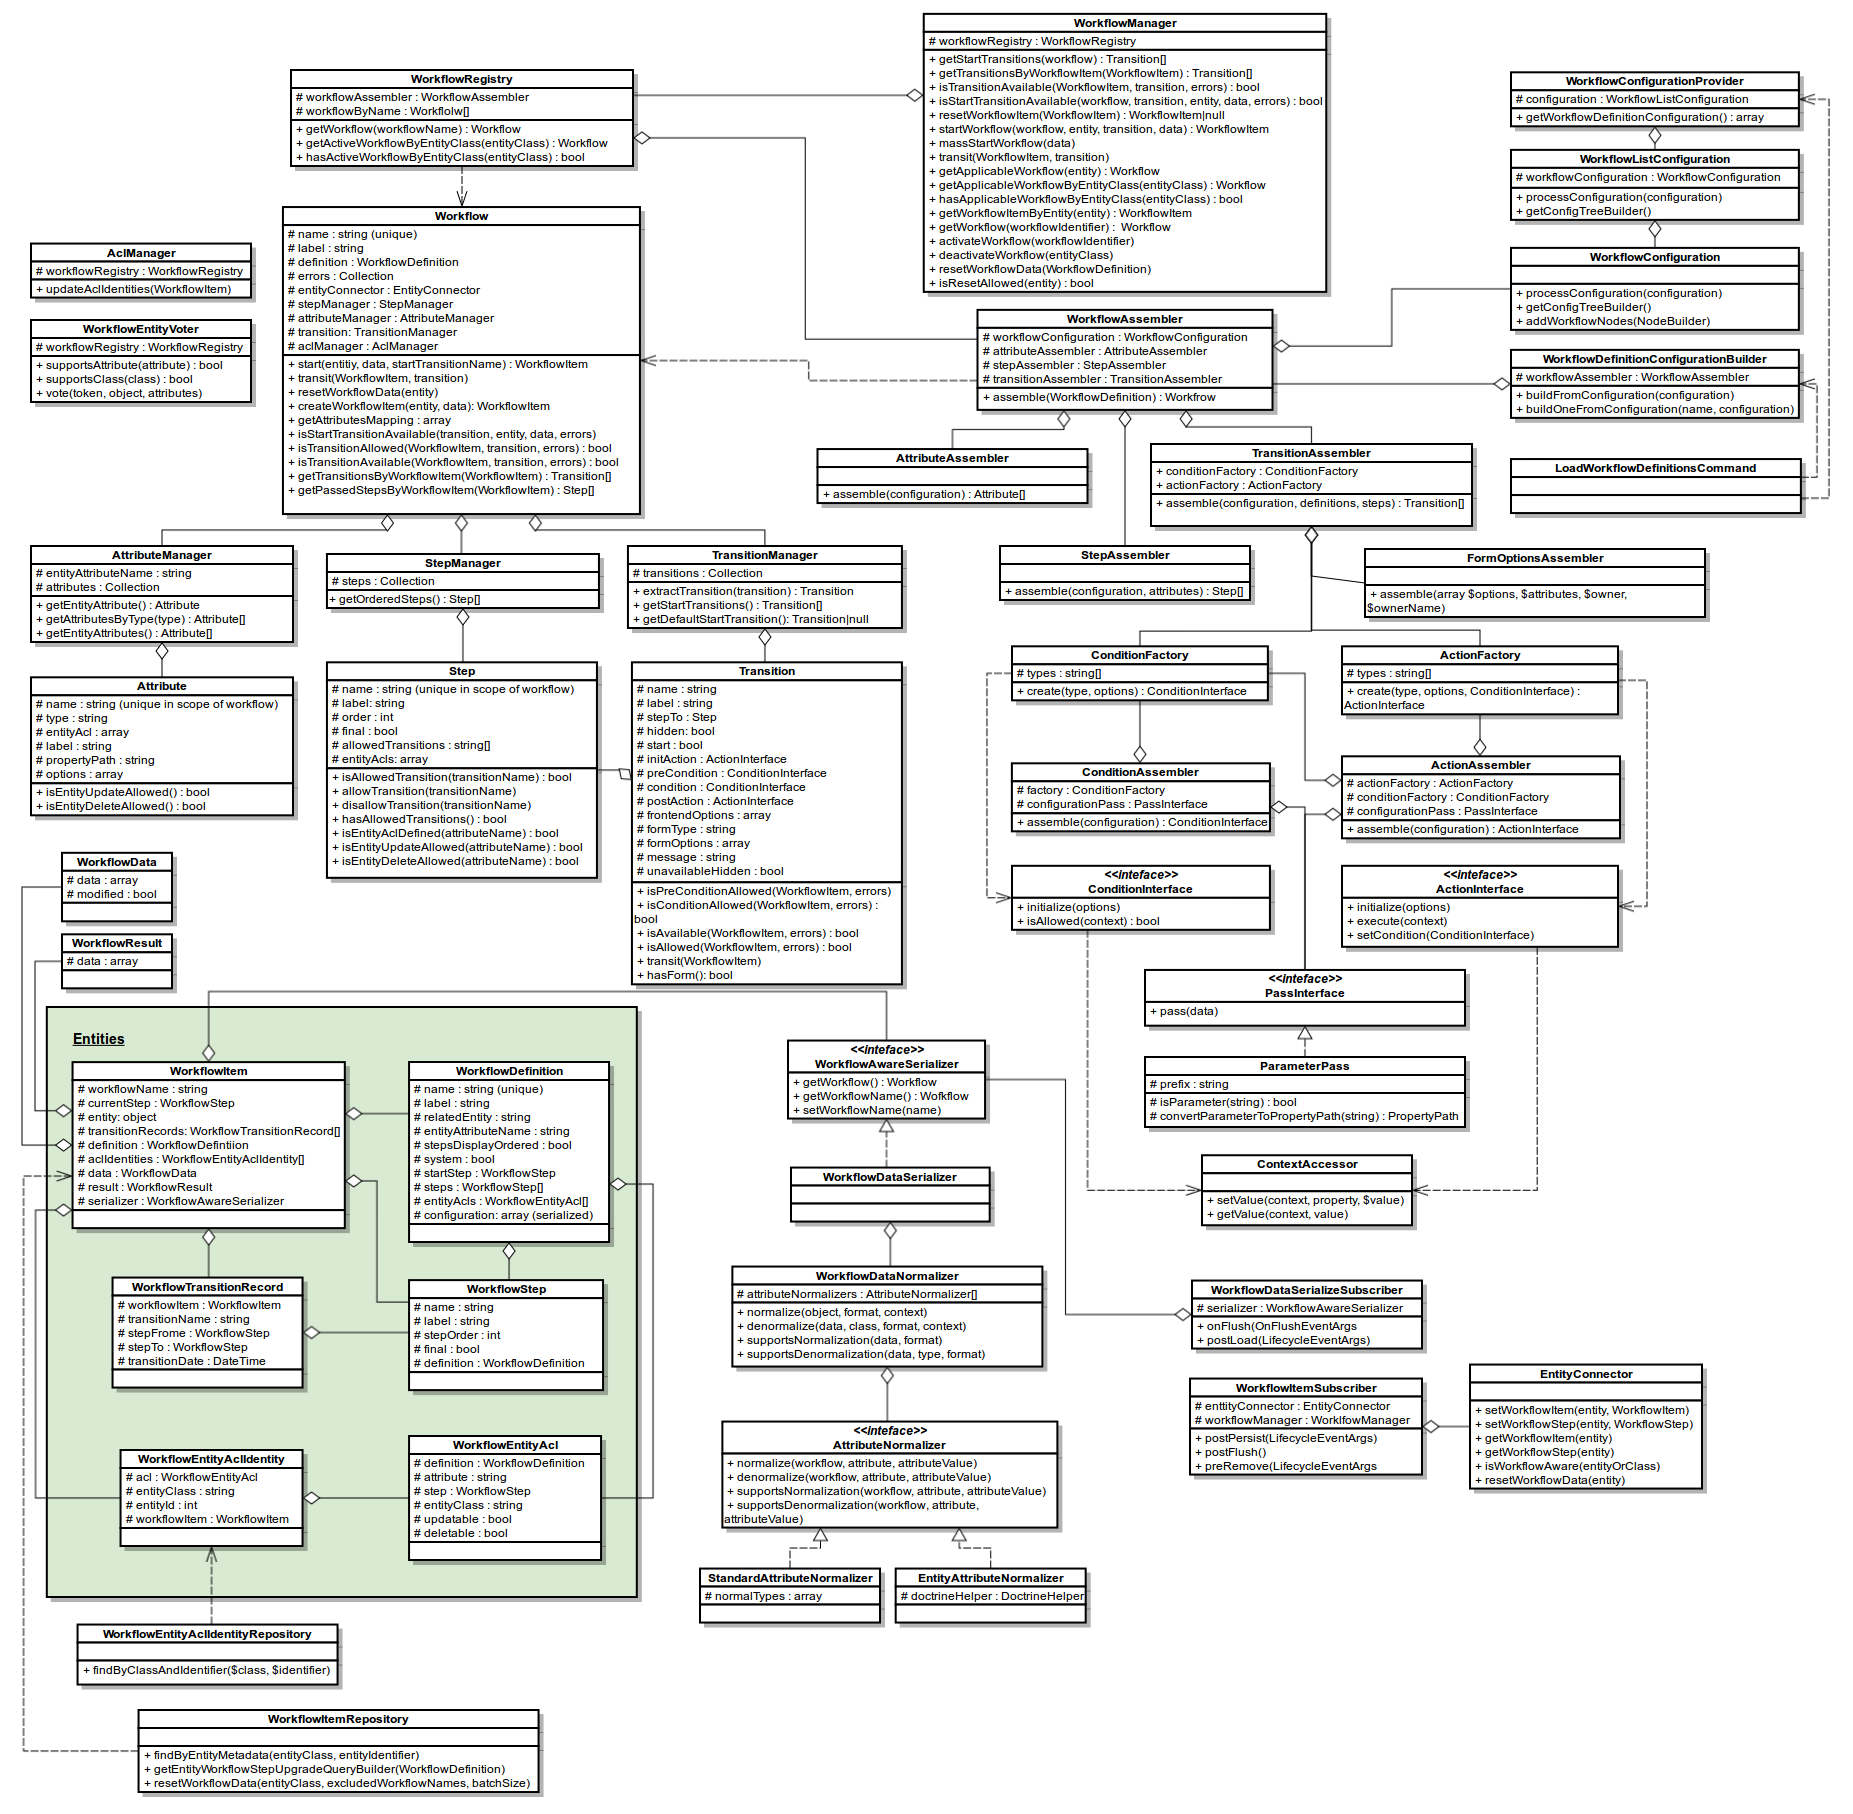
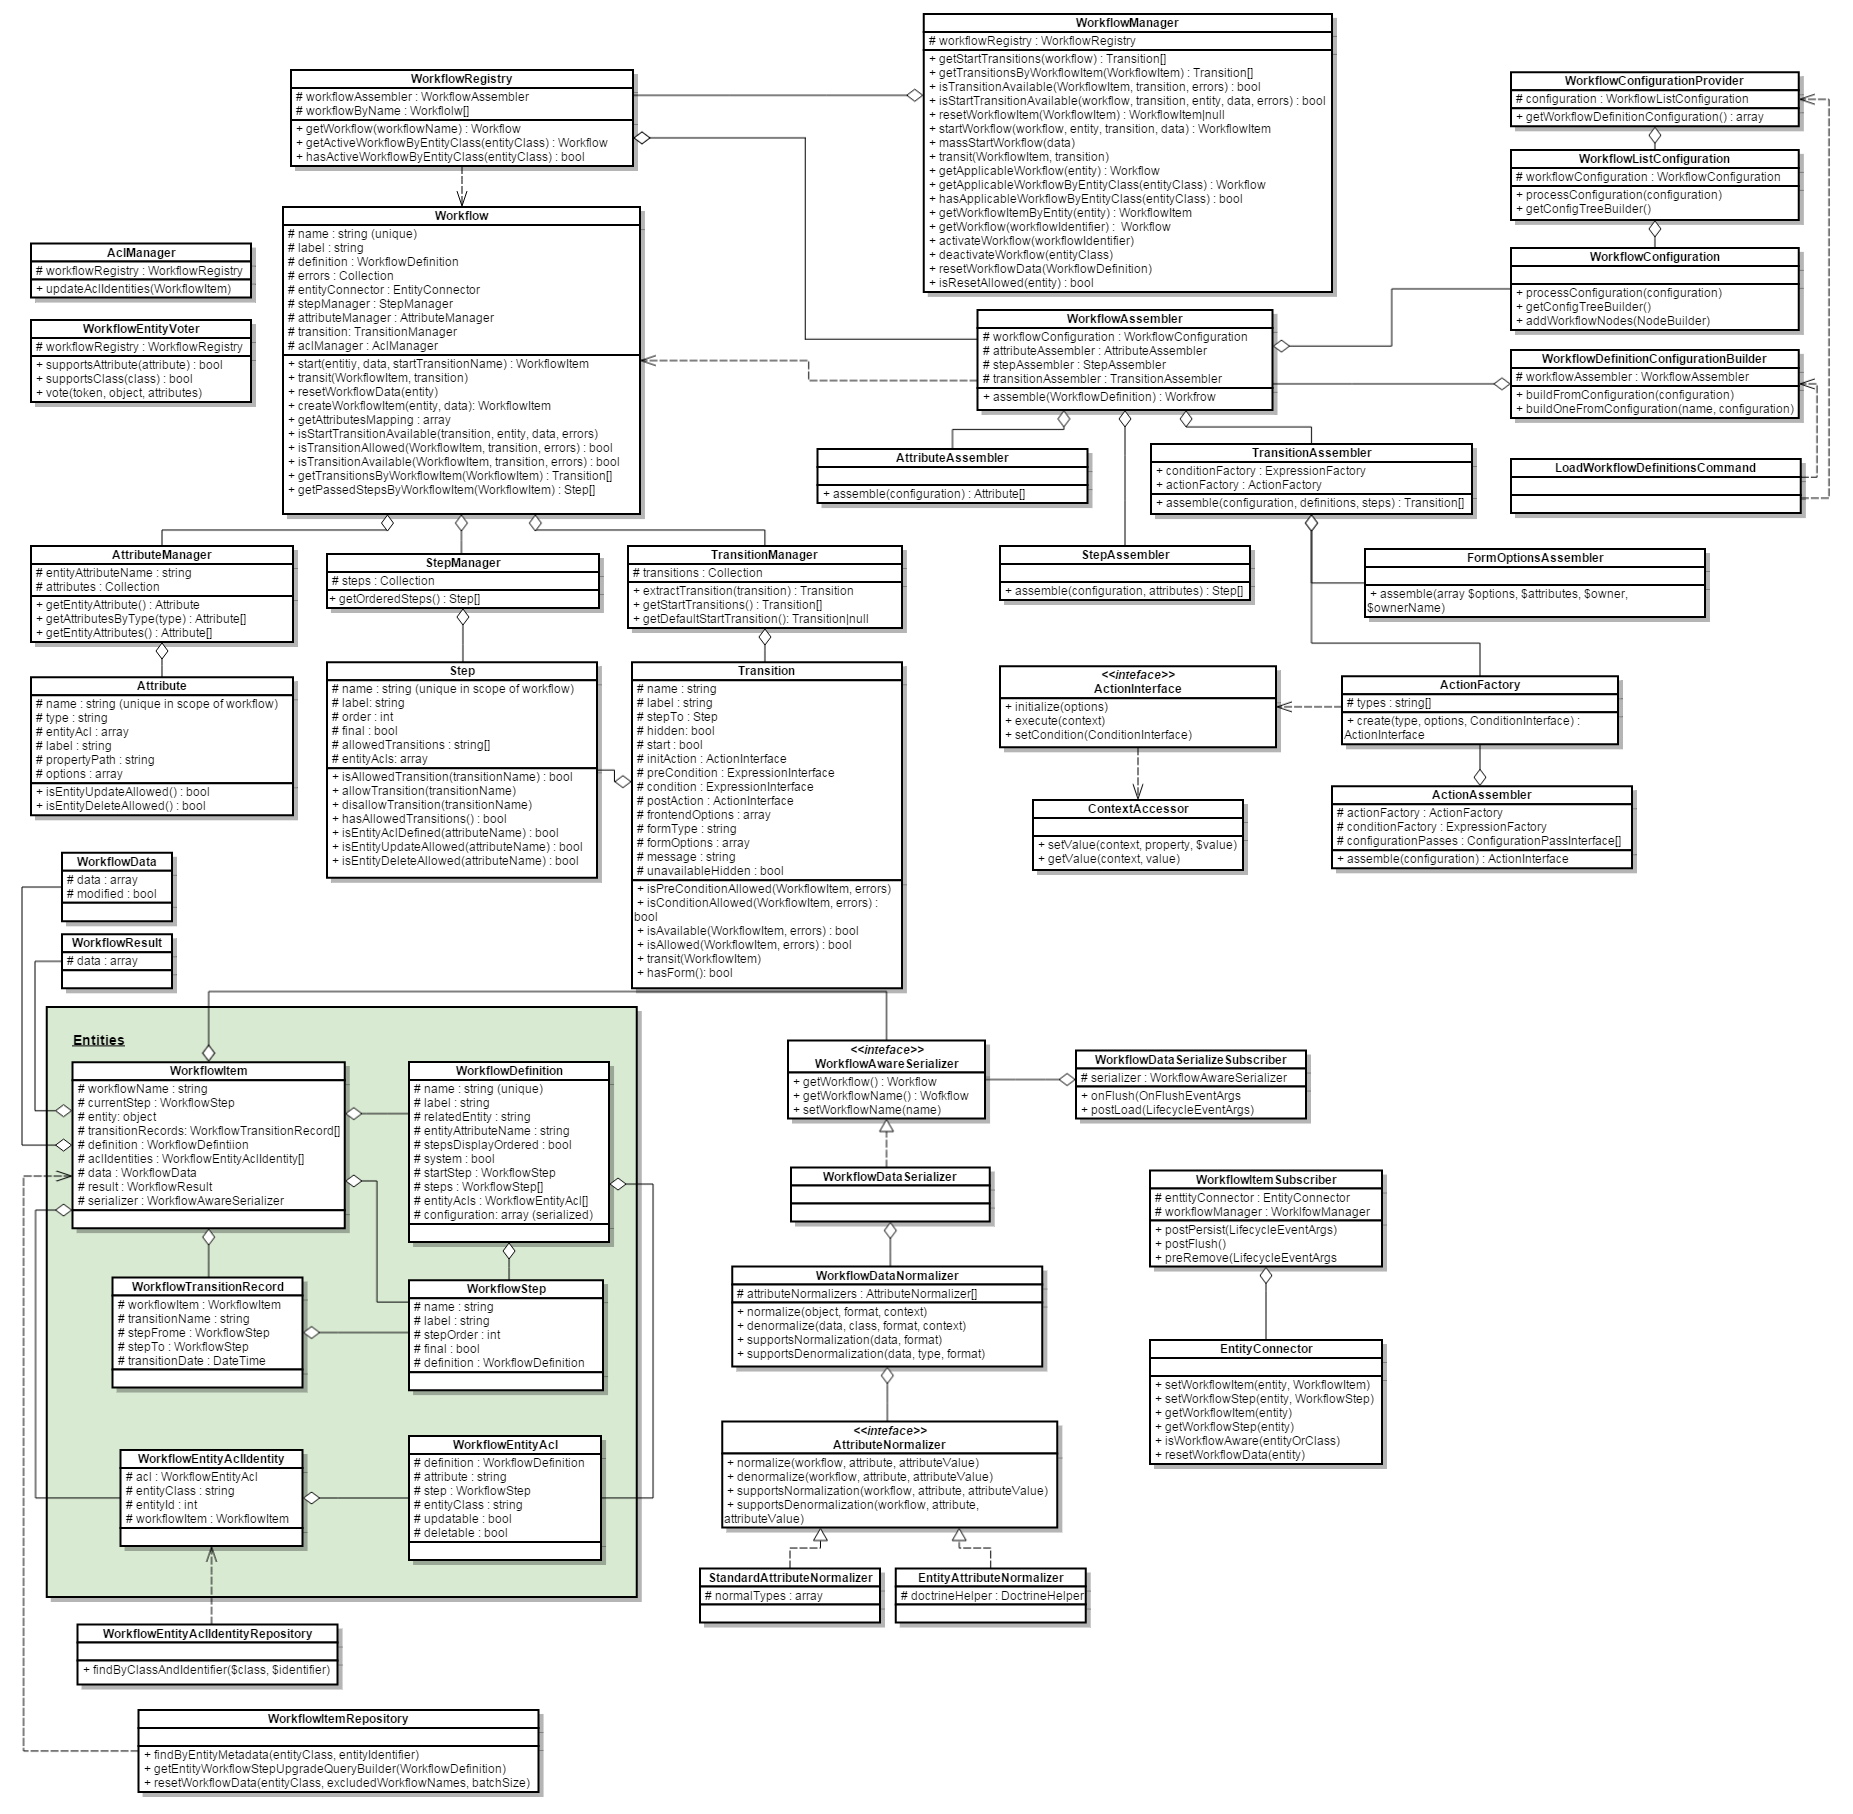
BAP-8121: Migrate workflows to ConfigExpression component  - minor fixes

diff --git a/Tests/Unit/Model/StepAssemblerTest.php b/Tests/Unit/Model/StepAssemblerTest.php
@@ -54,7 +54,7 @@ class StepAssemblerTest extends \PHPUnit_Framework_TestCase
     public function testAssemble($configuration, $attributes, Step $expectedStep)
     {
         $configurationPass = $this->getMockBuilder(
-            'Oro\Bundle\WorkflowBundle\Model\ConfigurationPass\ConfigurationPassInterface'
+            'Oro\Component\ConfigExpression\ConfigurationPass\ConfigurationPassInterface'
         )->getMockForAbstractClass();
 
         $configurationPass->expects($this->any())

diff --git a/Tests/Unit/Model/FormOptionsAssemblerTest.php b/Tests/Unit/Model/FormOptionsAssemblerTest.php
@@ -32,7 +32,7 @@ class FormOptionsAssemblerTest extends \PHPUnit_Framework_TestCase
             ->getMock();
 
         $this->configurationPass = $this->getMockBuilder(
-            'Oro\Bundle\WorkflowBundle\Model\ConfigurationPass\ConfigurationPassInterface'
+            'Oro\Component\ConfigExpression\ConfigurationPass\ConfigurationPassInterface'
         )->getMockForAbstractClass();
 
         $this->assembler = new FormOptionsAssembler($this->actionFactory);

diff --git a/Tests/Unit/Model/Action/ActionAssemblerTest.php b/Tests/Unit/Model/Action/ActionAssemblerTest.php
@@ -62,7 +62,7 @@ class ActionAssemblerTest extends \PHPUnit_Framework_TestCase
             );
 
         $configurationPass = $this->getMockBuilder(
-            'Oro\Bundle\WorkflowBundle\Model\ConfigurationPass\ConfigurationPassInterface'
+            'Oro\Component\ConfigExpression\ConfigurationPass\ConfigurationPassInterface'
         )->getMockForAbstractClass();
 
         $configurationPass->expects($this->any())

diff --git a/Model/ConfigurationPass/ReplacePropertyPath.php b/Model/ConfigurationPass/ReplacePropertyPath.php
@@ -4,6 +4,8 @@ namespace Oro\Bundle\WorkflowBundle\Model\ConfigurationPass;
 
 use Symfony\Component\PropertyAccess\PropertyPath;
 
+use Oro\Component\ConfigExpression\ConfigurationPass\ConfigurationPassInterface;
+
 /**
  * Passes through configuration array and replaces parameter strings ($parameter.name)
  * with appropriate PropertyPath objects

diff --git a/Model/AbstractAssembler.php b/Model/AbstractAssembler.php
@@ -3,7 +3,8 @@
 namespace Oro\Bundle\WorkflowBundle\Model;
 
 use Oro\Bundle\WorkflowBundle\Exception\AssemblerException;
-use Oro\Bundle\WorkflowBundle\Model\ConfigurationPass\ConfigurationPassInterface;
+
+use Oro\Component\ConfigExpression\ConfigurationPass\ConfigurationPassInterface;
 
 abstract class AbstractAssembler
 {
